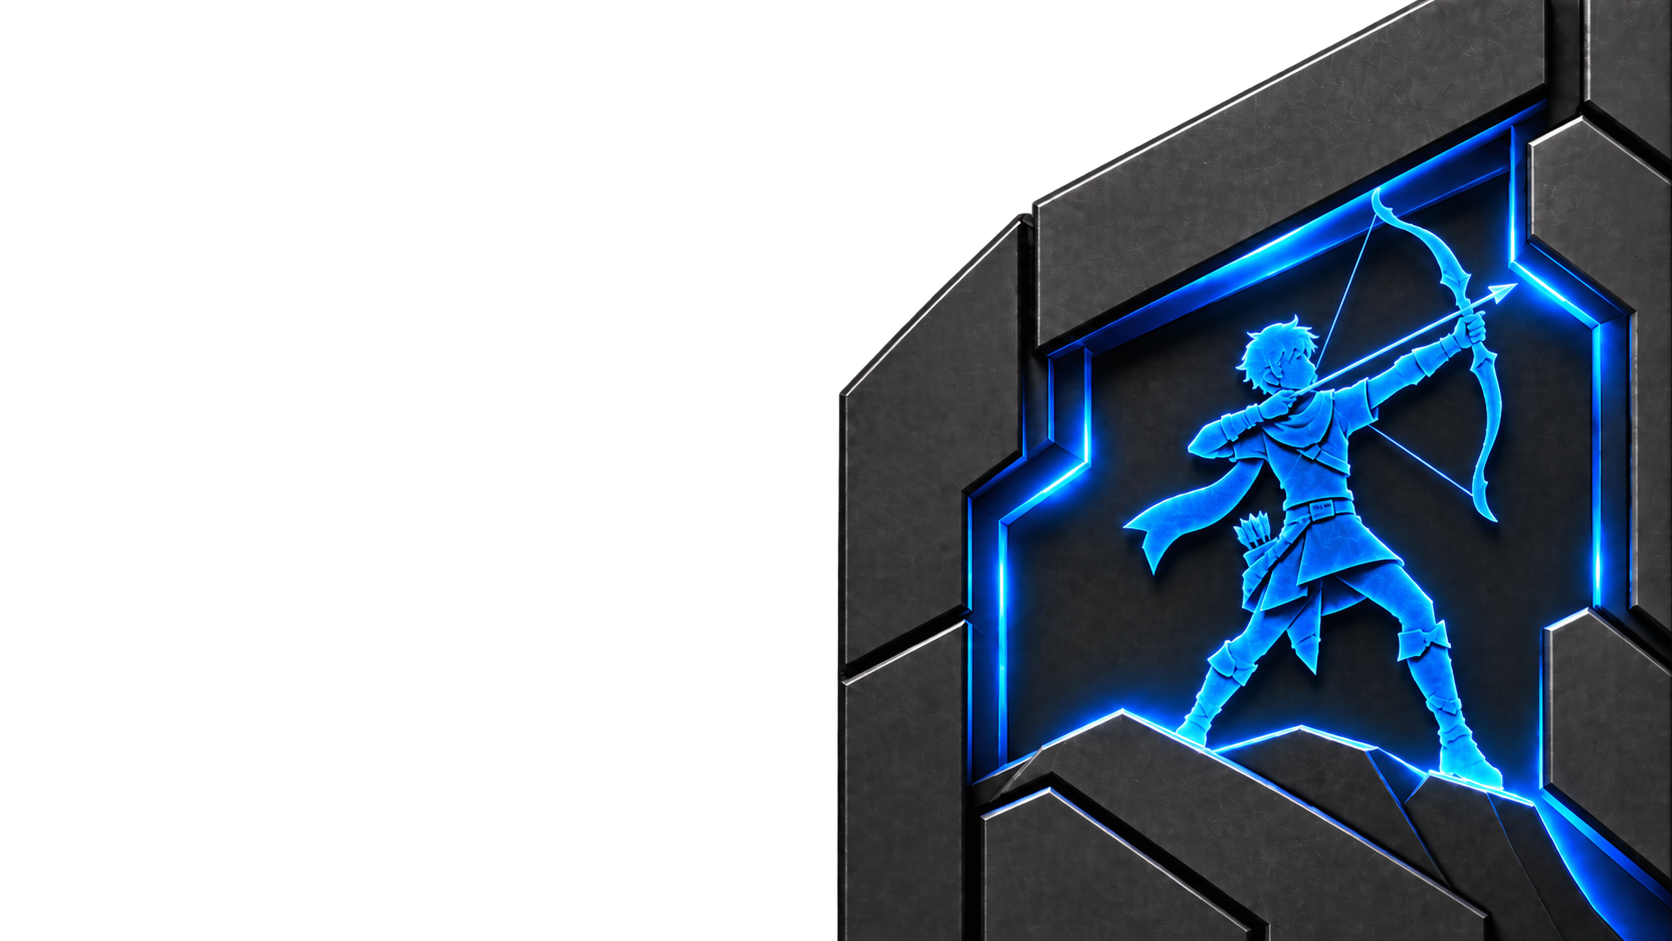
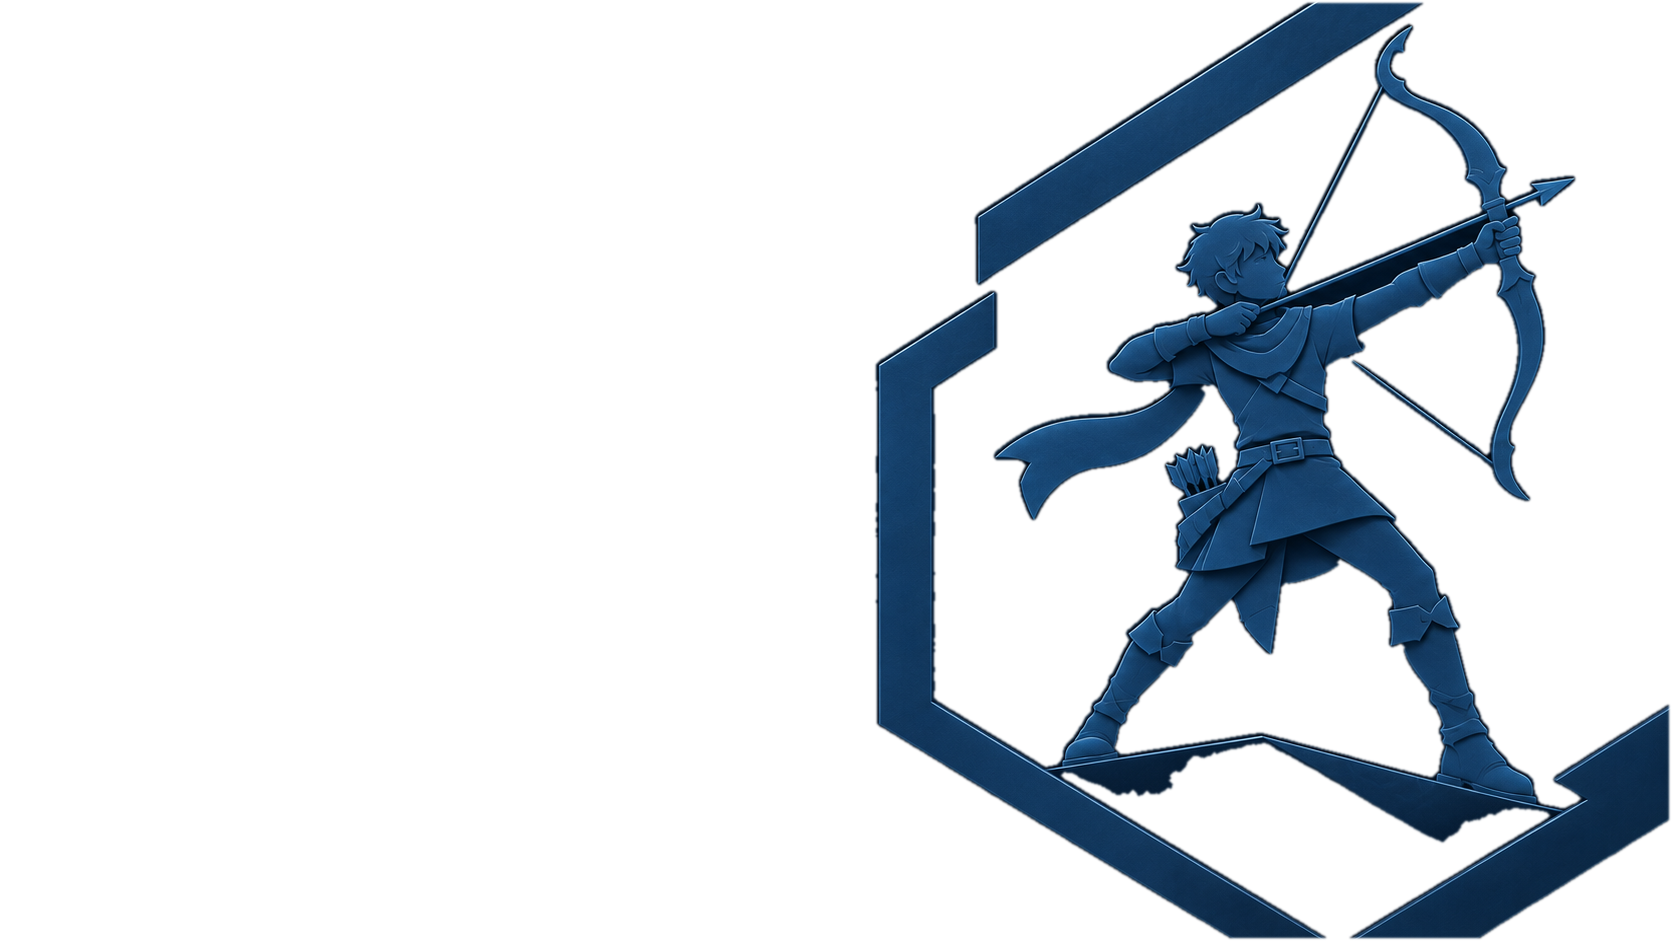
Increased empty editor background opacity and updated background images

diff --git a/src/index.css b/src/index.css
@@ -822,7 +822,7 @@ body {
   background-position: right center;
   background-size: auto 100%;
   background-attachment: fixed;
-  opacity: 0.2;
+  opacity: 0.5;
 }
 
 /* App-wide counterpart of .empty-editor-bg, rendered once behind the whole
@@ -849,7 +849,7 @@ body {
   background-repeat: no-repeat;
   background-position: right center;
   background-size: auto 100%;
-  opacity: 0.2;
+  opacity: 0.5;
 }
 
 /* Konami code easter egg (see useKonamiCode.ts / EasterEgg.tsx) — the Going
